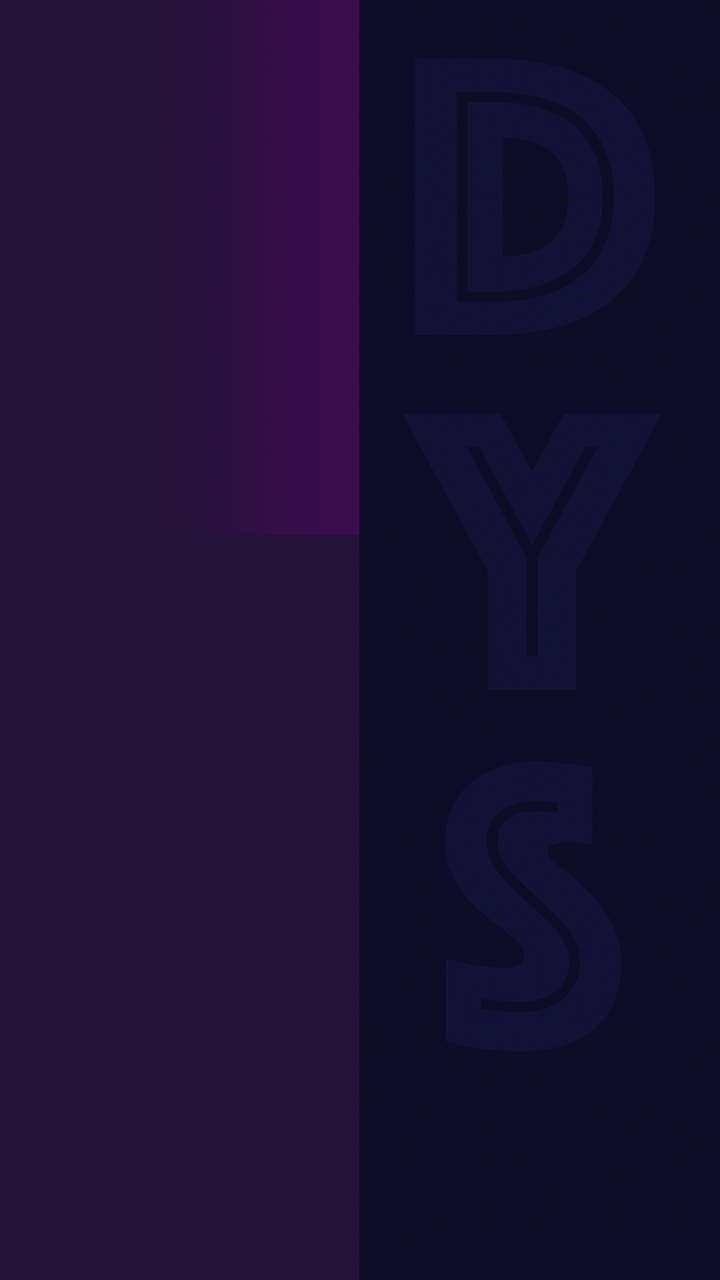
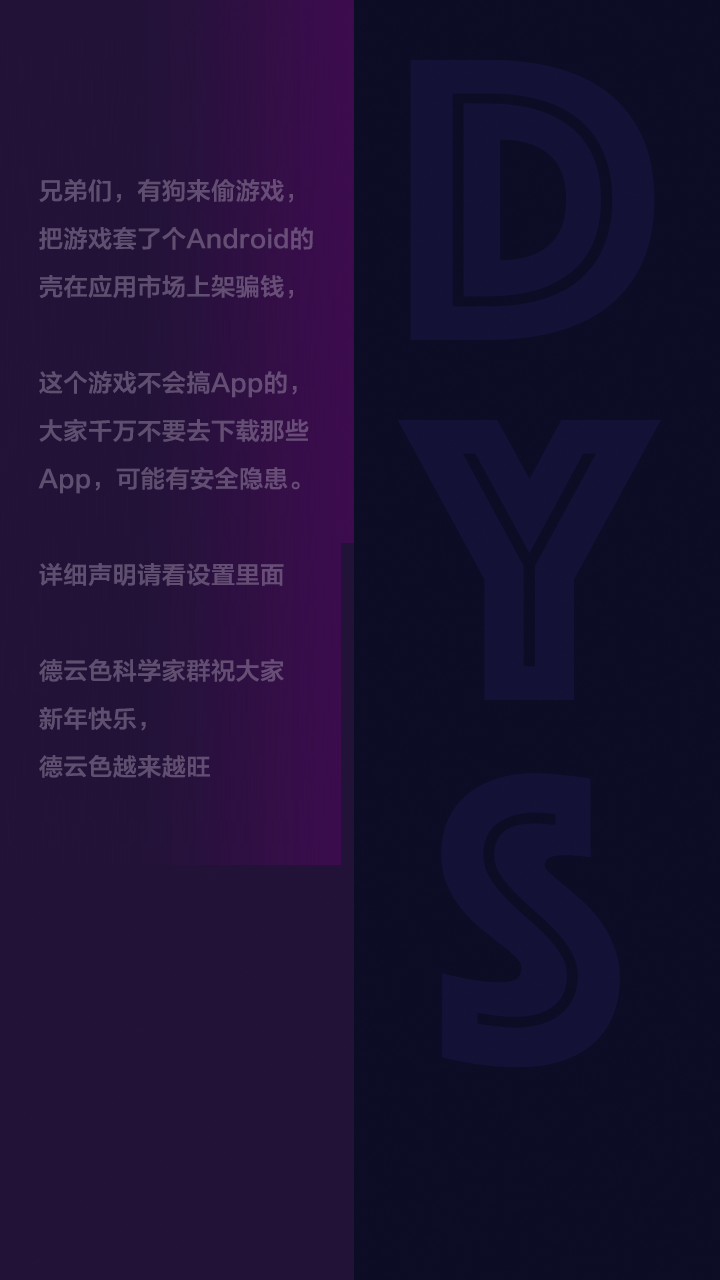
feat: change notice

diff --git a/src/project.js b/src/project.js
@@ -1902,7 +1902,7 @@ window.__require = function e(t, n, o) {
                 }, t.prototype.update = function(e) {
                     this.UpdateScoreLabel(e), this.lerpCtrl && this.lerpNumFunc(this.passlevelYQ), this.levelPanel.children[1].getComponent(cc.Label).string = s.default.Instance.GetLevel().toString()
                 }, t.prototype.adsButtonFunc = function() {
-                	alert('本游戏版本由DYS科学家群订制，如有冒犯，则G公主SM')
+                	alert('本游戏由DYS科学家群订制，本团队绝不会已任何形式发布App版本，请勿相信目前应用市场的各类以本游戏为内核App，以免遭受安全风险。')
                     // window.location.href = "https://activity.doumobfour.club/horse?appkey=8fa2be346ab599d74b7b35732652ab4d&adSpaceKey=83e7c46c40f572de847a2d1b541f19b5&1=1"
                 }, t.prototype.TestPasslevel = function() {
                     var e = this;
